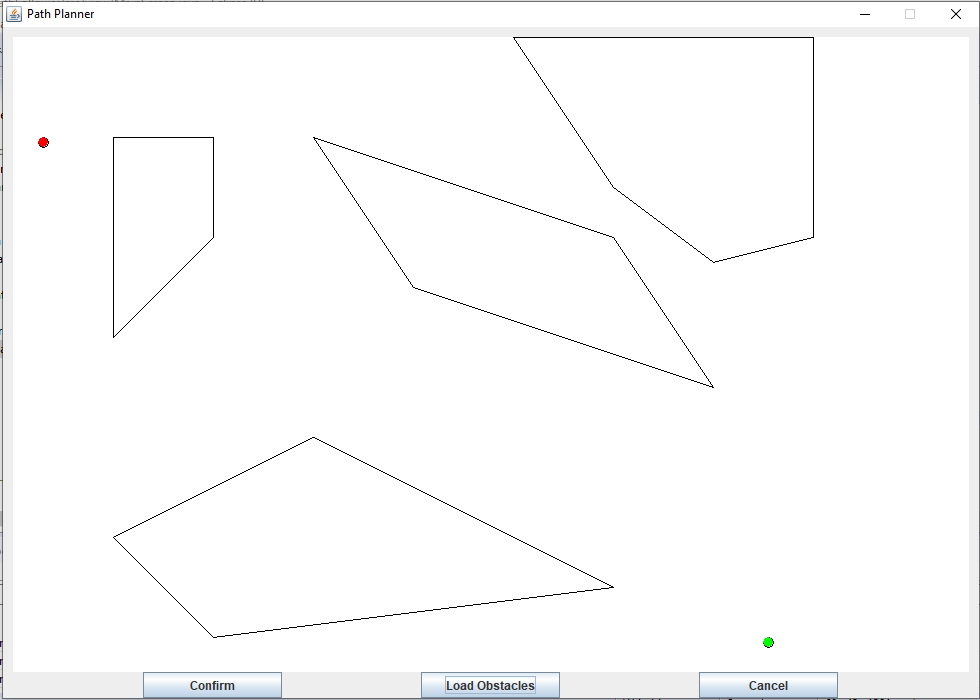
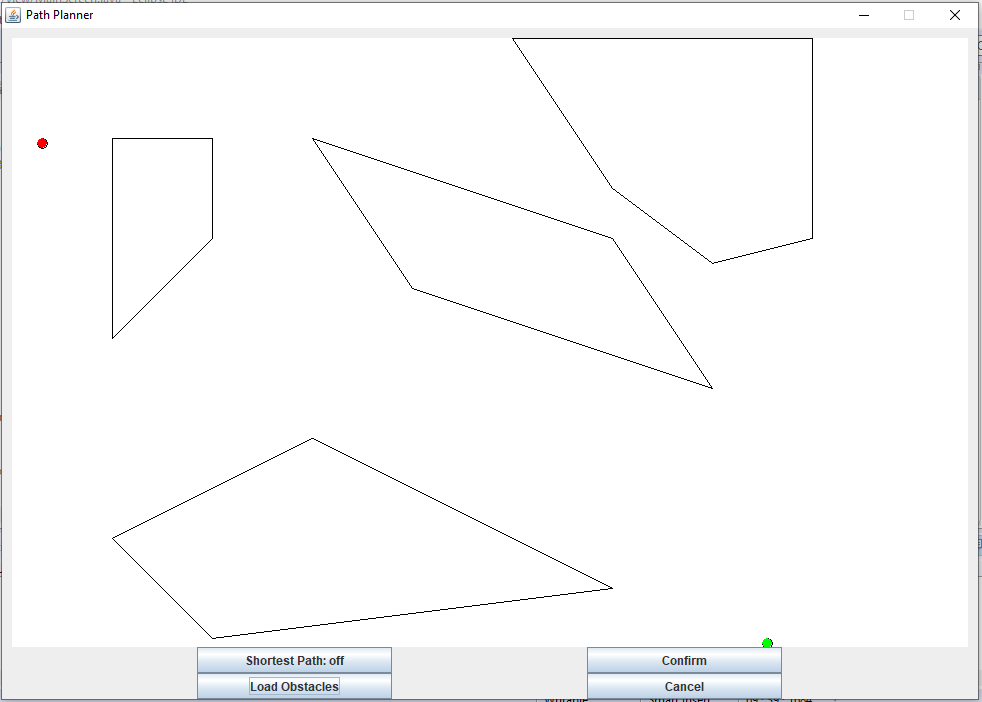
adicionando caminhos

diff --git a/README.md b/README.md
@@ -16,11 +16,16 @@ e na linha abaixo, os pontos incluídos no obstáculo, seguindo esse formato xi 
 
 Depois que o arquivo de configuração for finalizado, salve-o na pasta do projeto.Execute o programa,e a interface irá aparecer na tela.
 
-![Tela inicial](./images/tela_inicial.png) 
+![Tela inicial](./images/tela_inicial.jpeg) 
 
 Aperte o botão **load obstacles** para escolher o arquivo de obstáculos, assim os mesmos serão renderizados na tela assim, como os pontos de partida(na cor vermelha) 
 e chegada(na cor verde). Caso queira escolher outro arquivo de obstáculos aperte o botão **cancel**, e repita o processo. 
 
-Aperte o botão **confirm** para o caminho ser gerado e apresentado na tela.
+Aperte o botão **confirm** para o menor caminho entre o pontos ser calculado e apresentado na tela.
 
-![Menor caminho](./images/menorCaminho.png) 
+![Menor caminho](./images/menorCaminho.jpeg) 
+
+Caso o usuário deseje observar todos os caminhos encontrados pelo algoritmo, basta clicar no botão **Shortest Path**, e esse tipo de visualização vai ser ativado, para 
+desativar, clique novamento no botão. Quando o  botãoestiver com a palavra **off**, só irá aparecer o menor caminho, e com a palavra **on** todos os caminhos encontrados. 
+
+![Caminhos](./images/caminhos.jpeg)
